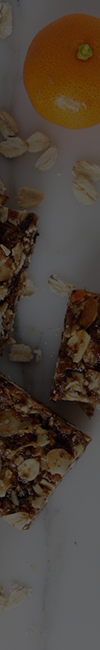
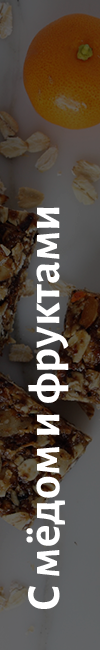
horizontal akkordeon contribution

Changed region(s): [[0.27, 0.3077, 0.69, 0.9538], [0.27, 0.8, 0.33, 0.8615]]

diff --git a/index.html b/index.html
@@ -638,23 +638,33 @@
 
       <ul class="menu-section__list">
         <li class="menu-section__items">
-          <div class="menu-section__text">Батончики с молоком
+          <div class="menu-section__photo">
+            <img src="./menu-section/milk.png" alt="" class="menu-section__img">
           </div>
-          <img src="./menu-section/milk.png" alt="" class="menu-section__img">
-        </li>
-
-        <li class="menu-section__items">
-          <div class="menu-section__text">С медом и фруктами</div>
-          <img src="./menu-section/honey_fruits.png" alt="" class="menu-section__img">
-        </li>
-
-
-        <li class="menu-section__items">
           <div class="menu-section__content">
-            <div class="menu-section__text">Дикие ягоды</div>
-            <img src="./menu-section/wild_berries.png" alt="" class="menu-section__img">
+            <div class="menu-section__hidden">
+              <div class="menu-section__photo-hidden">
+                <img src="./menu-section/milk.png" alt="" class="menu-section__img-hidden">
+              </div>
+              <div class="menu-section__text">
+                <p>Рекомендуем употреблять батончики вместе с кокосовым или миндальным молоком. Так вкуснее, и полезнее.
+                  Ну чего еще хотеть от жизни? Батончик - он твой лучший друг и радует вокруг. Как классно, что можно
+                  питаться полезно и вкусно,а не как попало. Бабуля, конечно, за такую еду не похвалит, но кто ее будет
+                  спрашивать - никто. Надо бы, кстати, бабулю, поздравить с Днем Победы!</p>
+              </div>
+            </div>
           </div>
-          
+        </li>
+
+        <li class="menu-section__items">
+          <div class="menu-section__photo">
+            <img src="./menu-section/honey_fruits.png" alt="" class="menu-section__img"></div>
+        </li>
+
+
+        <li class="menu-section__items">
+          <div class="menu-section__photo">
+            <img src="./menu-section/wild_berries.png" alt="" class="menu-section__img"></div>
         </li>
       </ul>
 

diff --git a/main.css b/main.css
@@ -1566,3 +1566,55 @@ img {
 .input--error {
   border: solid 0.1666666667rem red;
 }
+
+.menu-section {
+  background: url("../menu-section/background.png") center center no-repeat;
+  width: 100vw;
+  height: 100vh;
+  background-size: cover;
+  position: relative;
+}
+
+.menu-section__list {
+  display: flex;
+  justify-content: flex-end;
+}
+
+.menu-section__items {
+  height: 100vh;
+}
+
+.menu-section__photo {
+  height: 100vh;
+}
+
+.menu-section__img {
+  height: 100vh;
+}
+
+.menu-section__content {
+  width: 100vw;
+  position: absolute;
+  top: 0;
+  left: 0;
+  right: 300px;
+  height: 0;
+  z-index: 1000;
+}
+.menu-section__content .menu-section__hidden {
+  display: flex;
+  justify-content: space-between;
+  width: 100vw;
+}
+.menu-section__content .menu-section__hidden .menu-section__text {
+  background-color: #333537;
+  opacity: 0.929;
+  color: white;
+  font-size: 0.8888888889rem;
+}
+.menu-section__content .menu-section__hidden .menu-section__photo-hidden {
+  height: 100vh;
+}
+.menu-section__content .menu-section__hidden .menu-section__photo-hidden .menu-section__img-hidden {
+  height: 100vh;
+}

diff --git a/components/menu-section.scss b/components/menu-section.scss
@@ -1,8 +1,71 @@
-.menu-section{
-  
-  background-image: url('../menu-section/background.png');
+.menu-section {
+
+  background: url('../menu-section/background.png') center center no-repeat;
+  width: 100vw;
+  height: 100vh;
+  background-size: cover;
   position: relative;
+
+}
+
+
+
+.menu-section__list {
+  display: flex;
+  justify-content: flex-end;
+}
+
+
+.menu-section__items {
+  height: 100vh;
+}
+
+
+.menu-section__photo {
+  height: 100vh;
+}
+
+
+.menu-section__img {
+  height: 100vh;
+}
+
+.menu-section__content {
+  width: 100vw;
+  position: absolute;
+  top: 0;
+  left: 0;
+  right: 300px;
+  height: 0;
   z-index: 1000;
+
+
+  .menu-section__hidden {
+    display: flex;
+    justify-content: space-between;
+    width: 100vw;
+
+
+    .menu-section__text {
+
+      background-color: rgb(51, 53, 55);
+      opacity: 0.929;
+      color: white;
+      font-size: rem(16px);
+
+    }
+
+
+    .menu-section__photo-hidden {
+      height: 100vh;
+
+      .menu-section__img-hidden {
+        height: 100vh;
+      }
+
+    }
+
+  }
 
 
 }

diff --git a/components/menu-section.css b/components/menu-section.css
@@ -1,5 +1,9 @@
 .menu-section {
   background-image: url("../menu-section/background.png");
-  position: relative;
   z-index: 1000;
+}
+
+.menu-section__list {
+  display: flex;
+  justify-content: flex-end;
 }

diff --git a/main.scss b/main.scss
@@ -41,6 +41,7 @@ $z-fixed-menu: 100;
 @import "components/whatinside.scss";
 @import "components/section-team.scss";
 @import "components/form.scss";
+@import "components/menu-section.scss";
 
 
 
